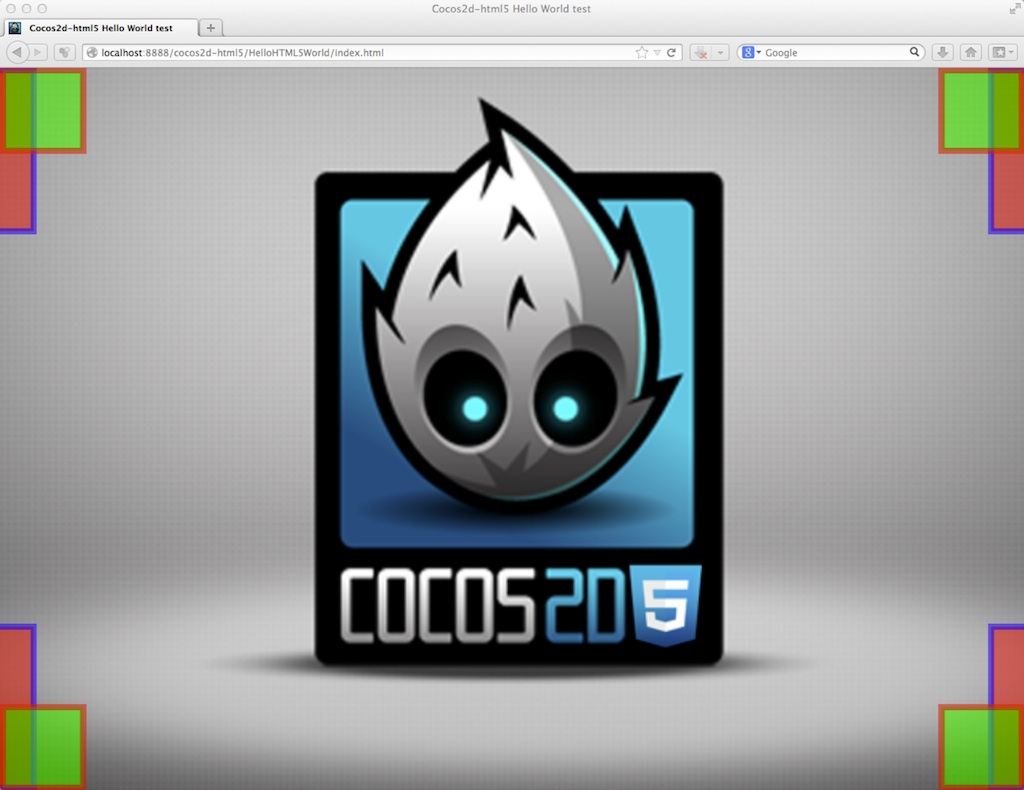
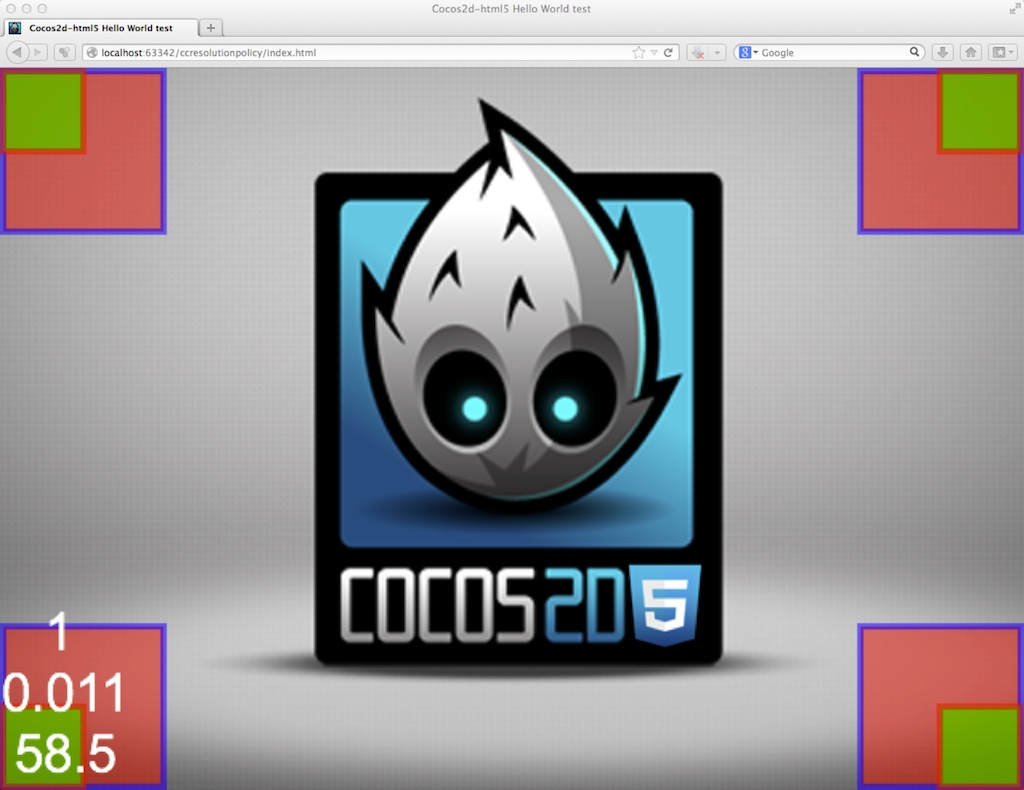
Correction of Resolution Policy Design doc for Fixed Width/Height policy

diff --git a/manual/framework/html5/resolution_policy_design/en.md b/manual/framework/html5/resolution_policy_design/en.md
@@ -110,7 +110,7 @@ The content strategy controls the behavior of how to scale the game world relati
 
 ##Predefined policies
 
-Now I will introduce all five predefined policies, in each captured image, the red rects are the game's content corner, and the green ones are the corners of the viewport of your game: which equals to the canvas.
+Now I will introduce all five predefined policies, in each captured image, the red rects are the game's content corner, and the green ones are the corners of the canvas.
 
 All resolution policies are combined with a container strategy and a content strategy, the combination of each policy is shown in the brackets.
 
@@ -134,11 +134,11 @@ Exact fit policy will scale the container to fit exactly the frame, so your game
 
 ####4. FIXED_WIDTH (EQUAL_TO_FRAME + FIXED_WIDTH)
 
-![FixedWidth](./res/FixedWidth.jpg)
+![FixedWidth](./res/FixedWidth.jpeg)
 
 Fixed width policy will scale the width of the container to fit the frame's width, and the height will be scaled proportionally.
 
-Pay attention to the position of viewport corners, it's different from the show all policy.
+It may seem alike to the SHOW_ALL policy, but the canvas's rect fills up the whole frame, and game world's coordinate system equals the canvas coordinate system.
 
 ####5. FIXED_HEIGHT (EQUAL_TO_FRAME + FIXED_HEIGHT)
 
@@ -146,7 +146,7 @@ Pay attention to the position of viewport corners, it's different from the show 
 
 Fixed height policy will scale the height of the container to fit the frame's height, and the width will be scaled proportionally.
 
-In the case of our caption, the game width is larger than the game height, so the FIXED_WIDTH policy act like SHOW_ALL, and the FIXED_HEIGHT policy act like NO_BORDER. On the contrary, if the game width is smaller than the game height, the FIXED_WIDTH policy will act like NO_BORDER, and the FIXED_HEIGHT policy will act like SHOW_ALL.
+In the case of our caption, the game width is larger than the game height, so the FIXED_WIDTH policy act like SHOW_ALL, and the FIXED_HEIGHT policy act like NO_BORDER. On the contrary, if the game width is smaller than the game height, the FIXED_WIDTH policy will act like NO_BORDER, and the FIXED_HEIGHT policy will act like SHOW_ALL. But FIXED_HEIGHT and FIXED_WIDTH policies will all take the whole frame as the viewport and game world rect.
 
 ##Customized resolution policy
 
@@ -180,19 +180,29 @@ If you are not satisfied with our predefined strategies, you can even implement 
 Extend the container strategy:
 >
 	var MyContainerStg = cc.ContainerStrategy.extend({
-		init: function (view) {
-			// This function is called once cocos2d-html5 initiated, 
-			// you can remove this function if you don't need any initialization
+		preApply: function (view) {
+			// This function is called before the process of adaptation,
+			// you can remove this function if you don't need
 		},
 >
 		apply: function (view, designedResolution) {
 			// Apply process
 		}
+>
+		postApply: function (view) {
+			// This function is called after the process of adaptation,
+			// you can remove this function if you don't need
+		},
 	});
 
 Extend the content strategy
 >
 	var MyContentStg = cc.ContentStrategy.extend({
+		preApply: function (view) {
+			// This function is called before the process of adaptation,
+			// you can remove this function if you don't need
+		},
+>
 		apply: function (view, designedResolution) {
 			var containerW = cc.canvas.width, containerH = cc.canvas.height;
 >			
@@ -200,6 +210,11 @@ Extend the content strategy
 >
 			return this._buildResult(containerW, containerH, contentW, contentH, scaleX, scaleY);
 		}
+>
+		postApply: function (view) {
+			// This function is called after the process of adaptation,
+			// you can remove this function if you don't need
+		},
 	});
 
 At last, you should construct your own policy with your custom strategies.
